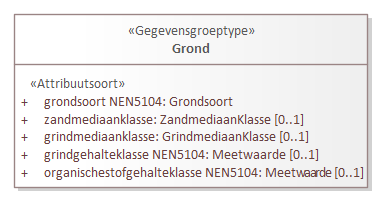
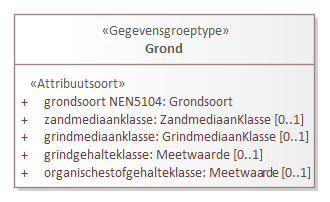
Conceptualmodel-MilieuhygienischbodemonderzoekSAD-0.2-1-20230126-20230314-121940

Changed region(s): [[0.0303, 0.0594, 0.9697, 0.9505], [0.303, 0.1188, 0.697, 0.2673]]

diff --git a/data/SAD-cat.msword.html b/data/SAD-cat.msword.html
@@ -15,7 +15,7 @@
    <body>
       <p>Conceptual model/Milieuhygienisch bodemonderzoek SAD/20230126</p>
       <p>Imvertor: 2.0.0</p>
-      <p>Model release: Conceptualmodel-MilieuhygienischbodemonderzoekSAD-0.2-1-20230126-20230314-090528</p>
+      <p>Model release: Conceptualmodel-MilieuhygienischbodemonderzoekSAD-0.2-1-20230126-20230314-121940</p>
       <hr>
       <section>
          <h1>Artikel 1 Definitie van registratieobject, entiteiten en attributen</h1>
@@ -576,7 +576,7 @@
                            </tr>
                         </tbody>
                      </table>
-                     </section><a class="anchor" id="detail_d69943e3288"></a><section id="detail_d69943e3288">
+                     </section><a class="anchor" id="detail_d69985e3288"></a><section id="detail_d69985e3288">
                      <h4>  registratiegeschiedenis</h4>
                      <table style="width: 100%;">
                         <colgroup style="width: 30%;"></colgroup>
@@ -609,7 +609,7 @@
                            </tr>
                         </tbody>
                      </table>
-                  </section><a class="anchor" id="detail_d69943e3473"></a><section id="detail_d69943e3473">
+                  </section><a class="anchor" id="detail_d69985e3473"></a><section id="detail_d69985e3473">
                      <h4>  gestandaardiseerde locatie</h4>
                      <table style="width: 100%;">
                         <colgroup style="width: 30%;"></colgroup>
@@ -652,7 +652,7 @@
                            </tr>
                         </tbody>
                      </table>
-                  </section><a class="anchor" id="detail_d69943e3707"></a><section id="detail_d69943e3707">
+                  </section><a class="anchor" id="detail_d69985e3707"></a><section id="detail_d69985e3707">
                      <h4>  rapport</h4>
                      <table style="width: 100%;">
                         <colgroup style="width: 30%;"></colgroup>
@@ -1802,7 +1802,7 @@
                            </tr>
                         </tbody>
                      </table>
-                     </section><a class="anchor" id="detail_d69943e7958"></a><section id="detail_d69943e7958">
+                     </section><a class="anchor" id="detail_d69985e7958"></a><section id="detail_d69985e7958">
                      <h4>  gestandaardiseerde locatie</h4>
                      <table style="width: 100%;">
                         <colgroup style="width: 30%;"></colgroup>
@@ -1836,7 +1836,7 @@
                            </tr>
                         </tbody>
                      </table>
-                  </section><a class="anchor" id="detail_d69943e8143"></a><section id="detail_d69943e8143">
+                  </section><a class="anchor" id="detail_d69985e8143"></a><section id="detail_d69985e8143">
                      <h4>  aangeleverde verticale positie</h4>
                      <table style="width: 100%;">
                         <colgroup style="width: 30%;"></colgroup>
@@ -2308,7 +2308,7 @@
                            </tr>
                         </tbody>
                      </table>
-                     </section><a class="anchor" id="detail_d69943e9804"></a><section id="detail_d69943e9804">
+                     </section><a class="anchor" id="detail_d69985e9804"></a><section id="detail_d69985e9804">
                      <h4>  grond</h4>
                      <table style="width: 100%;">
                         <colgroup style="width: 30%;"></colgroup>
@@ -2341,7 +2341,7 @@
                            </tr>
                         </tbody>
                      </table>
-                  </section><a class="anchor" id="detail_d69943e9989"></a><section id="detail_d69943e9989">
+                  </section><a class="anchor" id="detail_d69985e9989"></a><section id="detail_d69985e9989">
                      <h4>  kleur</h4>
                      <table style="width: 100%;">
                         <colgroup style="width: 30%;"></colgroup>
@@ -2374,7 +2374,7 @@
                            </tr>
                         </tbody>
                      </table>
-                  </section><a class="anchor" id="detail_d69943e10174"></a><section id="detail_d69943e10174">
+                  </section><a class="anchor" id="detail_d69985e10174"></a><section id="detail_d69985e10174">
                      <h4>  bijzonderheid</h4>
                      <table style="width: 100%;">
                         <colgroup style="width: 30%;"></colgroup>
@@ -2410,7 +2410,7 @@
                   </section>
                </section><a class="anchor" id="graph_EAID_8328E6DC_FE88_4c7a_9753_2D70E43D3391"></a><a class="anchor" id="global_class_Model_Grond"></a><section id="global_class_Model_Grond">
                   <h3>   Grond</h3>
-                  <div class="imageinfo "><img src="Images/EAID_EAA11C2D_7DF5_449c_8623_44C240E734CA.png" usemap="#imagemap-EAID_EAA11C2D_7DF5_449c_8623_44C240E734CA" alt="Diagram "><map name="imagemap-EAID_EAA11C2D_7DF5_449c_8623_44C240E734CA"><area shape="rect" alt="Grond" coords="14,14,368,188" href="#graph_EAID_8328E6DC_FE88_4c7a_9753_2D70E43D3391"></map><p><b></b></p>
+                  <div class="imageinfo "><img src="Images/EAID_EAA11C2D_7DF5_449c_8623_44C240E734CA.png" usemap="#imagemap-EAID_EAA11C2D_7DF5_449c_8623_44C240E734CA" alt="Diagram "><map name="imagemap-EAID_EAA11C2D_7DF5_449c_8623_44C240E734CA"><area shape="rect" alt="Grond" coords="14,14,315,188" href="#graph_EAID_8328E6DC_FE88_4c7a_9753_2D70E43D3391"></map><p><b></b></p>
                   </div>
                   <table style="width: 100%;">
                      <colgroup style="width: 30%;"></colgroup>
@@ -2519,6 +2519,13 @@
                               <td>Waardelijst uitbreidbaar</td>
                            </tr>
                            <tr>
+                              <th>Regels</th>
+                              <td>
+                                 
+                                 <p>Het attribuut mag alleen aanwezig zijn wanneer de waarde van het attribuut <em>'grondsoort NEN5104'</em> gelijk is aan zand (codes: 1, 2, 3, 4, 5)</p>
+                                 </td>
+                           </tr>
+                           <tr>
                               <th>Toelichting</th>
                               <td>
                                  
@@ -2569,6 +2576,13 @@
                               <td>Waardelijst uitbreidbaar</td>
                            </tr>
                            <tr>
+                              <th>Regels</th>
+                              <td>
+                                 
+                                 <p>Het attribuut mag alleen aanwezig zijn wanneer de waarde van het attribuut <em>'grondsoort NEN5104'</em> gelijk is aan grind (codes: 20, 21, 22, 23, 24).</p>
+                                 </td>
+                           </tr>
+                           <tr>
                               <th>Toelichting</th>
                               <td>
                                  
@@ -2578,8 +2592,8 @@
                            </tr>
                         </tbody>
                      </table>
-                     </section><a class="anchor" id="detail_attribute_Model_Grond_grindgehalteklasseNEN5104"></a><section id="detail_attribute_Model_Grond_grindgehalteklasseNEN5104">
-                     <h4>  grindgehalteklasse NEN5104</h4>
+                     </section><a class="anchor" id="detail_attribute_Model_Grond_grindgehalteklasse"></a><section id="detail_attribute_Model_Grond_grindgehalteklasse">
+                     <h4>  grindgehalteklasse</h4>
                      
                      <table style="width: 100%;">
                         <colgroup style="width: 30%;"></colgroup>
@@ -2624,8 +2638,8 @@
                            </tr>
                         </tbody>
                      </table>
-                     </section><a class="anchor" id="detail_attribute_Model_Grond_organischestofgehalteklasseNEN5104"></a><section id="detail_attribute_Model_Grond_organischestofgehalteklasseNEN5104">
-                     <h4>  organischestofgehalteklasse NEN5104</h4>
+                     </section><a class="anchor" id="detail_attribute_Model_Grond_organischestofgehalteklasse"></a><section id="detail_attribute_Model_Grond_organischestofgehalteklasse">
+                     <h4>  organischestofgehalteklasse</h4>
                      
                      <table style="width: 100%;">
                         <colgroup style="width: 30%;"></colgroup>

diff --git a/data/SAD-cat.respec.html b/data/SAD-cat.respec.html
@@ -552,7 +552,7 @@
                   </tr>
                </tbody>
             </table>
-            </section><a class="anchor" id="detail_d69943e3288"></a><section id="detail_d69943e3288">
+            </section><a class="anchor" id="detail_d69985e3288"></a><section id="detail_d69985e3288">
             <h4>  registratiegeschiedenis</h4>
             <table style="width: 100%;">
                <colgroup style="width: 30%;"></colgroup>
@@ -585,7 +585,7 @@
                   </tr>
                </tbody>
             </table>
-         </section><a class="anchor" id="detail_d69943e3473"></a><section id="detail_d69943e3473">
+         </section><a class="anchor" id="detail_d69985e3473"></a><section id="detail_d69985e3473">
             <h4>  gestandaardiseerde locatie</h4>
             <table style="width: 100%;">
                <colgroup style="width: 30%;"></colgroup>
@@ -628,7 +628,7 @@
                   </tr>
                </tbody>
             </table>
-         </section><a class="anchor" id="detail_d69943e3707"></a><section id="detail_d69943e3707">
+         </section><a class="anchor" id="detail_d69985e3707"></a><section id="detail_d69985e3707">
             <h4>  rapport</h4>
             <table style="width: 100%;">
                <colgroup style="width: 30%;"></colgroup>
@@ -1778,7 +1778,7 @@
                   </tr>
                </tbody>
             </table>
-            </section><a class="anchor" id="detail_d69943e7958"></a><section id="detail_d69943e7958">
+            </section><a class="anchor" id="detail_d69985e7958"></a><section id="detail_d69985e7958">
             <h4>  gestandaardiseerde locatie</h4>
             <table style="width: 100%;">
                <colgroup style="width: 30%;"></colgroup>
@@ -1812,7 +1812,7 @@
                   </tr>
                </tbody>
             </table>
-         </section><a class="anchor" id="detail_d69943e8143"></a><section id="detail_d69943e8143">
+         </section><a class="anchor" id="detail_d69985e8143"></a><section id="detail_d69985e8143">
             <h4>  aangeleverde verticale positie</h4>
             <table style="width: 100%;">
                <colgroup style="width: 30%;"></colgroup>
@@ -2284,7 +2284,7 @@
                   </tr>
                </tbody>
             </table>
-            </section><a class="anchor" id="detail_d69943e9804"></a><section id="detail_d69943e9804">
+            </section><a class="anchor" id="detail_d69985e9804"></a><section id="detail_d69985e9804">
             <h4>  grond</h4>
             <table style="width: 100%;">
                <colgroup style="width: 30%;"></colgroup>
@@ -2317,7 +2317,7 @@
                   </tr>
                </tbody>
             </table>
-         </section><a class="anchor" id="detail_d69943e9989"></a><section id="detail_d69943e9989">
+         </section><a class="anchor" id="detail_d69985e9989"></a><section id="detail_d69985e9989">
             <h4>  kleur</h4>
             <table style="width: 100%;">
                <colgroup style="width: 30%;"></colgroup>
@@ -2350,7 +2350,7 @@
                   </tr>
                </tbody>
             </table>
-         </section><a class="anchor" id="detail_d69943e10174"></a><section id="detail_d69943e10174">
+         </section><a class="anchor" id="detail_d69985e10174"></a><section id="detail_d69985e10174">
             <h4>  bijzonderheid</h4>
             <table style="width: 100%;">
                <colgroup style="width: 30%;"></colgroup>
@@ -2386,7 +2386,7 @@
          </section>
       </section><a class="anchor" id="graph_EAID_8328E6DC_FE88_4c7a_9753_2D70E43D3391"></a><a class="anchor" id="global_class_Model_Grond"></a><section id="global_class_Model_Grond">
          <h3>   Grond</h3>
-         <div class="imageinfo "><img src="data/Images/EAID_EAA11C2D_7DF5_449c_8623_44C240E734CA.png" usemap="#imagemap-EAID_EAA11C2D_7DF5_449c_8623_44C240E734CA" alt="Diagram "><map name="imagemap-EAID_EAA11C2D_7DF5_449c_8623_44C240E734CA"><area shape="rect" alt="Grond" coords="14,14,368,188" href="#graph_EAID_8328E6DC_FE88_4c7a_9753_2D70E43D3391"></map><p><b></b></p>
+         <div class="imageinfo "><img src="data/Images/EAID_EAA11C2D_7DF5_449c_8623_44C240E734CA.png" usemap="#imagemap-EAID_EAA11C2D_7DF5_449c_8623_44C240E734CA" alt="Diagram "><map name="imagemap-EAID_EAA11C2D_7DF5_449c_8623_44C240E734CA"><area shape="rect" alt="Grond" coords="14,14,315,188" href="#graph_EAID_8328E6DC_FE88_4c7a_9753_2D70E43D3391"></map><p><b></b></p>
          </div>
          <table style="width: 100%;">
             <colgroup style="width: 30%;"></colgroup>
@@ -2495,6 +2495,13 @@
                      <td>Waardelijst uitbreidbaar</td>
                   </tr>
                   <tr>
+                     <th>Regels</th>
+                     <td>
+                        
+                        <p>Het attribuut mag alleen aanwezig zijn wanneer de waarde van het attribuut <em>'grondsoort NEN5104'</em> gelijk is aan zand (codes: 1, 2, 3, 4, 5)</p>
+                        </td>
+                  </tr>
+                  <tr>
                      <th>Toelichting</th>
                      <td>
                         
@@ -2545,6 +2552,13 @@
                      <td>Waardelijst uitbreidbaar</td>
                   </tr>
                   <tr>
+                     <th>Regels</th>
+                     <td>
+                        
+                        <p>Het attribuut mag alleen aanwezig zijn wanneer de waarde van het attribuut <em>'grondsoort NEN5104'</em> gelijk is aan grind (codes: 20, 21, 22, 23, 24).</p>
+                        </td>
+                  </tr>
+                  <tr>
                      <th>Toelichting</th>
                      <td>
                         
@@ -2554,8 +2568,8 @@
                   </tr>
                </tbody>
             </table>
-            </section><a class="anchor" id="detail_attribute_Model_Grond_grindgehalteklasseNEN5104"></a><section id="detail_attribute_Model_Grond_grindgehalteklasseNEN5104">
-            <h4>  grindgehalteklasse NEN5104</h4>
+            </section><a class="anchor" id="detail_attribute_Model_Grond_grindgehalteklasse"></a><section id="detail_attribute_Model_Grond_grindgehalteklasse">
+            <h4>  grindgehalteklasse</h4>
             
             <table style="width: 100%;">
                <colgroup style="width: 30%;"></colgroup>
@@ -2600,8 +2614,8 @@
                   </tr>
                </tbody>
             </table>
-            </section><a class="anchor" id="detail_attribute_Model_Grond_organischestofgehalteklasseNEN5104"></a><section id="detail_attribute_Model_Grond_organischestofgehalteklasseNEN5104">
-            <h4>  organischestofgehalteklasse NEN5104</h4>
+            </section><a class="anchor" id="detail_attribute_Model_Grond_organischestofgehalteklasse"></a><section id="detail_attribute_Model_Grond_organischestofgehalteklasse">
+            <h4>  organischestofgehalteklasse</h4>
             
             <table style="width: 100%;">
                <colgroup style="width: 30%;"></colgroup>
